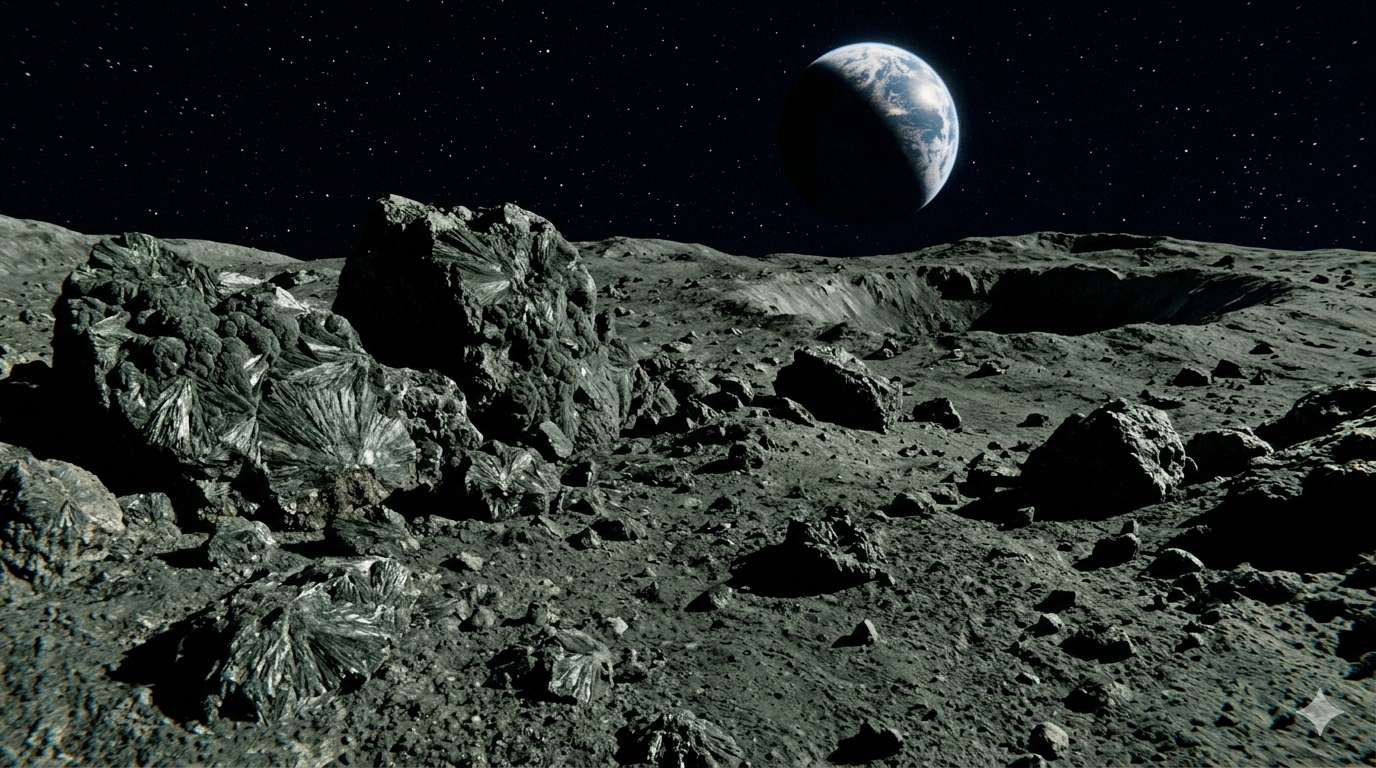
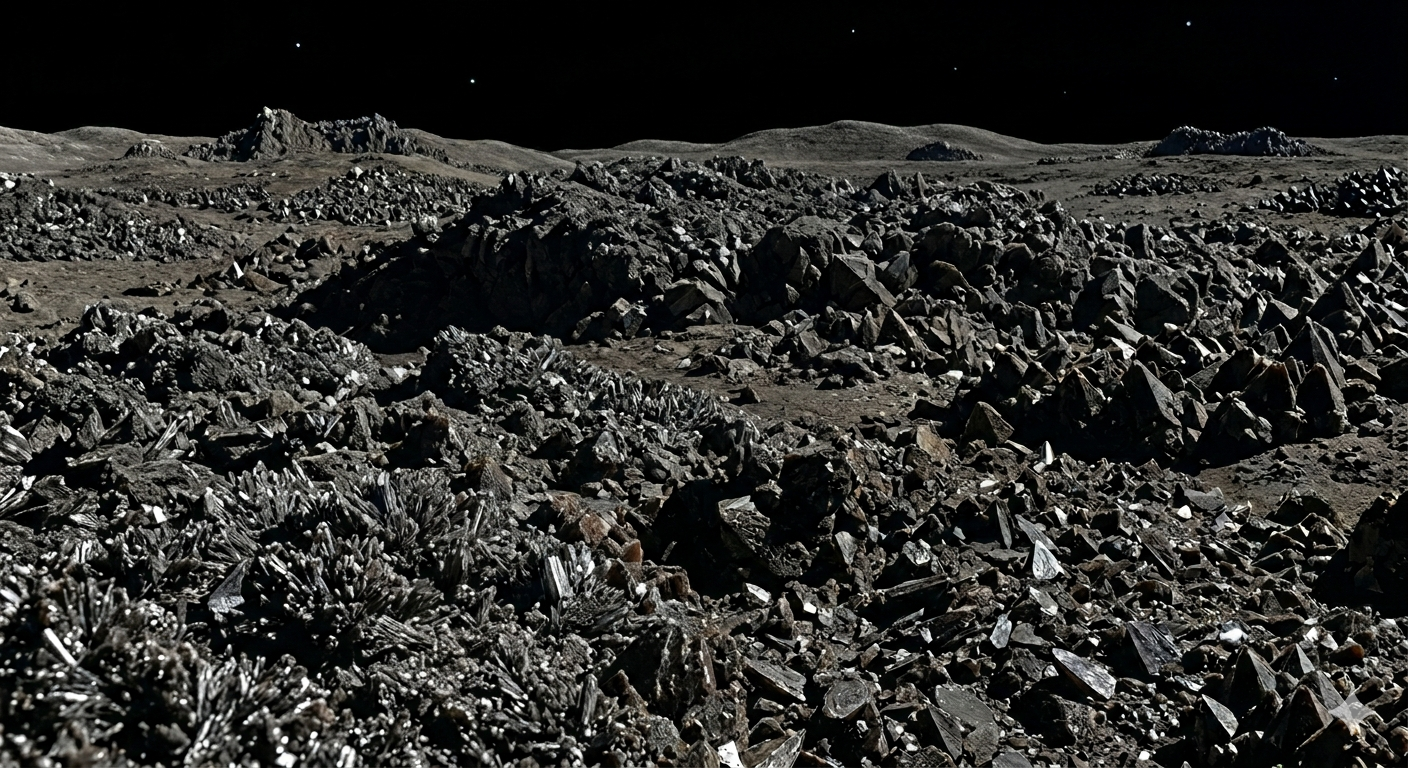
replace cronstedite

diff --git a/docs/project/3_GDD/4_worldbuilding/5_01_geographie/biome/sand_desert_serpentine.md b/docs/project/3_GDD/4_worldbuilding/5_01_geographie/biome/sand_desert_serpentine.md
@@ -4,7 +4,7 @@
 Des surfaces de sable peut se former.
 Elles se situent dans les failles ou au pied des escarpements.
 Elles sont composées de chrysotile (amiante) de couleur gris vert très pâle.
-Autement toxique elle peut
+Autement toxiques et volatiles elles sont très abrasive pour les equipements.
 Sur un astre avec athosphere il peut se former de grand desert.
 Su un astre sans athmosphere ils se concentre proche de leurs formations.
 

diff --git a/docs/project/3_GDD/4_worldbuilding/5_01_geographie/biome/serpentine_plain.md b/docs/project/3_GDD/4_worldbuilding/5_01_geographie/biome/serpentine_plain.md
@@ -36,8 +36,7 @@ Oxygène (O)
 Eau (H2O)
 
 #### Illustration
-![Cronstedidite](/img/biome/cronstedtite.png)
-![Cronstedidite](/img/biome/cronstedtite_2.png)
+![cronstedtite](/img/biome/cronstedtite.png)
 
 
 ### Epsomite 

diff --git a/docs/project/3_GDD/4_worldbuilding/5_01_geographie/biome/rock_desert_talc.md b/docs/project/3_GDD/4_worldbuilding/5_01_geographie/biome/rock_desert_talc.md
@@ -1,4 +1,4 @@
-# Talc plain folié
+# Désert de roche de Talc
 
 ## Description
 Le paysage de talc est blanchatre très claire. Constitué de couche de phyllosilicate. 
